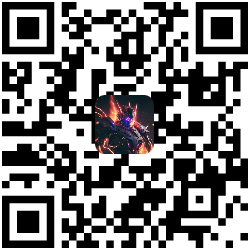
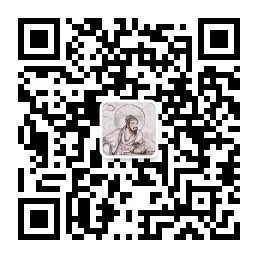
update

diff --git a/_layouts/post.html b/_layouts/post.html
@@ -75,7 +75,7 @@ layout: default
             <div class="side">
                 <div>
                     <i class="fa fa-external-link"></i>
-                    头条号
+                    微信公众号
                 </div>
                 <img width="300px" src="/douyin.jpg" />
             </div>

diff --git a/index.html b/index.html
@@ -89,7 +89,7 @@ layout: default
             <div class="side">
                 <div>
                     <i class="fa fa-external-link"></i>
-                    头条号
+                    微信公众号
                 </div>
                 <img width="300px" src="/douyin.jpg" />
             </div>
